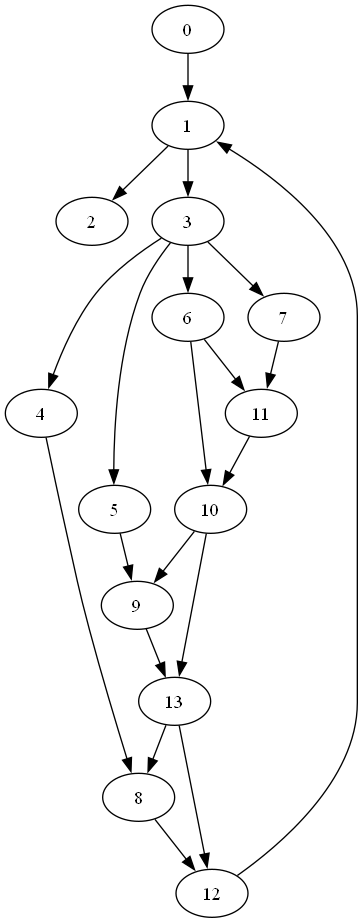
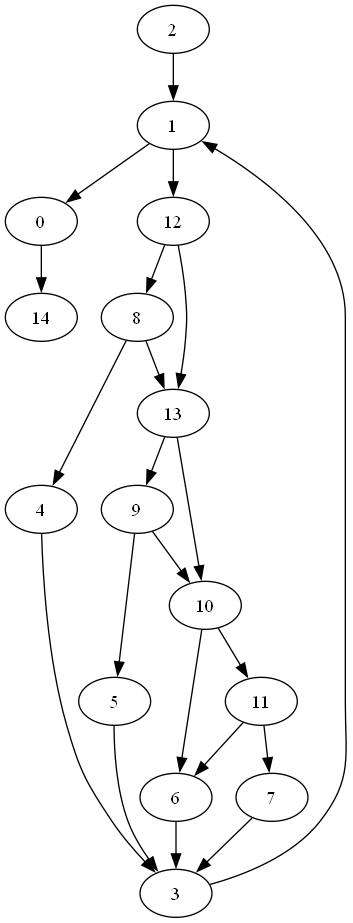
should work now for the love of god

diff --git a/single_file_stuff.cpp b/single_file_stuff.cpp
@@ -18,6 +18,7 @@ struct control_flow_node {
     std::vector<node_id> m_successors;
     node_id m_directSuccessor = 0;
     node_id m_targetSuccessor = 0;
+    node_id m_postorder;
     node_id m_startLine = 0;
     node_id m_endLine = 0;
     node_id m_index = 0;
@@ -31,42 +32,53 @@ struct control_flow_node {
     const control_flow_node* b2 = &nodes[node_b2];
     std::cout << "doing intersection for u = " << node_b1 << " v = " << node_b2 << '\n';
     while (b1->m_index != b2->m_index) {
-        while (dfn.at(b1->m_index) < dfn.at(b2->m_index)) {
+        while (b1->m_postorder < b2->m_postorder) {
             b1 = &nodes[b1->m_ipdom];
         }
-        while (dfn.at(b2->m_index) < dfn.at(b1->m_index)) {
+        while (b2->m_postorder < b1->m_postorder) {
             b2 = &nodes[b2->m_ipdom];
         }
     }
     return *b1;
 }
 
-[[nodiscard]] std::vector<node_id> create_rev_postord(const std::vector<control_flow_node>& nodes) {
+[[nodiscard]] std::vector<node_id> postorder(const std::vector<control_flow_node>& nodes) {
     std::vector<node_id> result;
     const u32 size = nodes.size();
     result.reserve(size);
     node_set visited(size, false);
-    std::function<void(node_id)> visit = [&](node_id n) {
-        if (visited[n]) {
-            return;
+
+    std::vector<std::pair<node_id, size_t>> stack;
+    stack.emplace_back(nodes.back().m_index, 0);
+    u32 i = 0;
+    while (!stack.empty()) {
+        auto [n, i] = stack.back();
+        if (!visited[n]) {
+            visited[n] = true;
         }
-        visited[n] = true;
-        for (const auto& succ : nodes[n].m_successors) {
-            visit(succ);
+
+        const auto& preds = nodes[n].m_predecessors;
+        if (i < preds.size()) {
+            stack.back().second++;
+            const auto p = preds[i];
+            if (!visited[p]) {
+                stack.emplace_back(p, 0);
+            }
         }
-        result.push_back(n);
-    };
-    visit(nodes[0].m_index);
-    std::reverse(result.begin(), result.end());
+        else {
+            result.push_back(n);
+            stack.pop_back();
+        }
+    }
     return result;
 }
 
 std::unordered_map<node_id, node_id> compute_postdominators(std::vector<control_flow_node>& m_nodes) {
-    std::vector<node_id> rev_postord = {2, 12, 8, 4, 13, 9, 5, 10, 11, 6, 7, 3, 1, 0};
+    std::vector<node_id> rev_postord = postorder(m_nodes);
     static constexpr node_id UNDEF = std::numeric_limits<node_id>::max();
 	std::unordered_map<node_id, u32> dfn;
     for (u32 i = 0; i < m_nodes.size(); ++i) {
-        dfn[rev_postord[i]] = i;
+        m_nodes[rev_postord[i]].m_postorder = i;
     }
     rev_postord.pop_back();
     std::reverse(rev_postord.begin(), rev_postord.end());
@@ -75,7 +87,7 @@ std::unordered_map<node_id, node_id> compute_postdominators(std::vector<control_
     for (auto n : rev_postord) {
         ipdom[n] = UNDEF;
     }
-    ipdom[m_nodes[0].m_index] = m_nodes[0].m_index;
+    ipdom[m_nodes.back().m_index] = m_nodes.back().m_index;
     bool changed = true;
     while (changed) {
         changed = false;
@@ -84,17 +96,18 @@ std::unordered_map<node_id, node_id> compute_postdominators(std::vector<control_
             std::cout << "proc " << n << '\n';
             node_id new_ipdom = UNDEF;
             const control_flow_node& node = m_nodes.at(n);
-            for (const auto& p : node.m_predecessors) {
+            for (const auto& p : node.m_successors) {
                 std::cout << " pred: " << p;
                 if (ipdom[p] != UNDEF) {
                     new_ipdom = p;
+                    break;
                 }
             }
             std::cout << '\n';
             if (new_ipdom == UNDEF) {
                 continue;
             }
-            for (const auto& p : node.m_predecessors) {
+            for (const auto& p : node.m_successors) {
                 if (p != new_ipdom && ipdom[p] != UNDEF) {
                     new_ipdom = intersect(p, new_ipdom, m_nodes, dfn).m_index;
                 }
@@ -111,46 +124,43 @@ std::unordered_map<node_id, node_id> compute_postdominators(std::vector<control_
 }
 
 int main() {
-    std::vector<control_flow_node> nodes(14);
+    std::vector<control_flow_node> nodes(15);
 
     for (node_id i = 0; i < nodes.size(); ++i)
         nodes[i].m_index = i;
 
-    nodes[0].m_successors = {};
-    nodes[1].m_successors = {0};
-    nodes[2].m_successors = {1};
-    nodes[3].m_successors = {1};
-    nodes[4].m_successors = {3};
-    nodes[5].m_successors = {3};
-    nodes[6].m_successors = {3};
-    nodes[7].m_successors = {3};
-    nodes[8].m_successors = {4, 13};
-    nodes[9].m_successors = {5, 10};
+    nodes[0].m_successors  = {14};
+    nodes[1].m_successors  = {0, 12};
+    nodes[2].m_successors  = {1};
+    nodes[3].m_successors  = {1};
+    nodes[4].m_successors  = {3};
+    nodes[5].m_successors  = {3};
+    nodes[6].m_successors  = {3};
+    nodes[7].m_successors  = {3};
+    nodes[8].m_successors  = {4, 13};
+    nodes[9].m_successors  = {5, 10};
     nodes[10].m_successors = {6, 11};
     nodes[11].m_successors = {6, 7};
     nodes[12].m_successors = {8, 13};
     nodes[13].m_successors = {9, 10};
 
-    nodes[0].m_predecessors = {1};
-    nodes[1].m_predecessors = {2, 3};
-    nodes[2].m_predecessors = {};
-    nodes[3].m_predecessors = {4, 5, 6, 7};
-    nodes[4].m_predecessors = {8};
-    nodes[5].m_predecessors = {9};
-    nodes[6].m_predecessors = {10, 11};
-    nodes[7].m_predecessors = {11};
-    nodes[8].m_predecessors = {12};
-    nodes[9].m_predecessors = {13};
+    nodes[0].m_predecessors  = {1};
+    nodes[1].m_predecessors  = {2, 3};
+    nodes[2].m_predecessors  = {};
+    nodes[3].m_predecessors  = {4, 5, 6, 7};
+    nodes[4].m_predecessors  = {8};
+    nodes[5].m_predecessors  = {9};
+    nodes[6].m_predecessors  = {10, 11};
+    nodes[7].m_predecessors  = {11};
+    nodes[8].m_predecessors  = {12};
+    nodes[9].m_predecessors  = {13};
     nodes[10].m_predecessors = {9, 13};
     nodes[11].m_predecessors = {10};
     nodes[12].m_predecessors = {1};
     nodes[13].m_predecessors = {8, 12};
+    nodes[14].m_predecessors = {0};
 
     auto res = compute_postdominators(nodes);
-
-    for (u32 i = 0; i < nodes.size(); ++i)
-        std::cout << "node " << i << nodes[i].m_ipdom << "\n";
-
     for (const auto& [a, b] : res) {
         std::cout << "node " << a << " ipdom " << b << "\n";
     }

diff --git a/source/decompilation/control_flow_graph.cpp b/source/decompilation/control_flow_graph.cpp
@@ -121,7 +121,7 @@ namespace dconstruct {
         }
     }
 
-    [[nodiscard]] std::vector<node_id> create_rev_postord(const std::vector<control_flow_node>& nodes) {
+    [[nodiscard]] std::vector<node_id> postorder(const std::vector<control_flow_node>& nodes) {
         std::vector<node_id> result;
         const u32 size = nodes.size();
         result.reserve(size);
@@ -145,7 +145,7 @@ namespace dconstruct {
                 }
             }
             else {
-                result.insert(result.begin(), n);
+                result.push_back(n);
                 stack.pop_back();
             }
         }
@@ -392,17 +392,19 @@ namespace dconstruct {
 
     void ControlFlowGraph::compute_postdominators() {
 
-        auto rev_postdom = create_rev_postord(m_nodes);
+        auto order = postorder(m_nodes);
 
         static constexpr node_id UNDEF = std::numeric_limits<node_id>::max();
 
-		for (u32 i = m_nodes.size(); i > 0; --i) {
-            m_nodes[m_nodes.size() - i].m_postorder = rev_postdom[i - 1];
-		}
+        for (u32 i = 0; i < m_nodes.size(); ++i) {
+            m_nodes[order[i]].m_postorder = i;
+        }
+        order.pop_back();
+		std::reverse(order.begin(), order.end());
 
-        const u32 N = rev_postdom.size();
+        const u32 N = order.size();
         std::unordered_map<node_id, node_id> ipdom;
-        for (auto n : rev_postdom) {
+        for (auto n : order) {
             ipdom[n] = UNDEF;
         }
 
@@ -412,8 +414,8 @@ namespace dconstruct {
         bool changed = true;
         while (changed) {
             changed = false;
-            for (u32 i = 1; i < N; ++i) {
-                node_id n = rev_postdom[i];
+            for (u32 i = 0; i < N; ++i) {
+                node_id n = order[i];
                 node_id new_ipdom = UNDEF;
                 const control_flow_node& node = m_nodes.at(n);
                 const auto dir_s = node.m_directSuccessor;

diff --git a/test/decompiler_test.cpp b/test/decompiler_test.cpp
@@ -120,7 +120,7 @@ namespace dconstruct::testing {
         const auto& type = rhs;
 
         std::ostringstream actual_os;
-        actual.pseudo(actual_os);
+		actual.pseudo_c(actual_os);
         const std::string actual_str = actual_os.str();
         const std::string expected_str = "return 1;";
         ASSERT_EQ(expected_str, actual_str);
@@ -139,7 +139,7 @@ namespace dconstruct::testing {
         const std::string expected = "return 1;";
         std::ostringstream os;
         for (const auto& stmt : actual) {
-            stmt->pseudo(os);
+            stmt->pseudo_c(os);
         }
         EXPECT_EQ(expected, os.str());
     }
@@ -178,7 +178,7 @@ namespace dconstruct::testing {
 
         std::ostringstream os;
         for (const auto& stmt : actual) {
-            stmt->pseudo(os);
+            stmt->pseudo_c(os);
         }
         EXPECT_EQ(expected, os.str());
     }
@@ -204,7 +204,7 @@ namespace dconstruct::testing {
 
         std::ostringstream os;
         for (const auto& stmt : actual) {
-            stmt->pseudo(os);
+            stmt->pseudo_c(os);
         }
         EXPECT_EQ(expected, os.str());
     }

diff --git a/test.py b/test.py
@@ -6,29 +6,30 @@ from IPython.display import Image
 import networkx as nx
 
 graph = {
-    0: {1},
-    1: {2, 3},
-    2: set(),
-    3: {4, 5, 6, 7},
-    4: {8},
-    5: {9},
-    6: {10, 11},
-    7: {11},
-    8: {12},
-    9: {13},
-    10: {9, 13},
-    11: {10},
-    12: {1},
-    13: {8, 12},
+    0: {14},
+    1: {0, 12},
+    2: {1},
+    3: {1},
+    4: {3},
+    5: {3},
+    6: {3},
+    7: {3},
+    8: {4, 13},
+    9: {5, 10},
+    10: {6, 11},
+    11: {6, 7},
+    12: {8, 13},
+    13: {9, 10},
+    14: {},
 }
 
-edge_list = [(dst, src) for src, dsts in graph.items() for dst in dsts]
+edge_list = [(src, dst) for src, dsts in graph.items() for dst in dsts]
 
 
 G = nx.DiGraph()
 G.add_edges_from(edge_list)
-print(list(reversed(list(nx.dfs_postorder_nodes(G, source=0)))))
-print(nx.immediate_dominators(G, start=12))
+G = G.reverse()
+print(nx.immediate_dominators(G, start=14))
 
 dot = Digraph()
 for src, dsts in graph.items():

diff --git a/include/ast/printable.h b/include/ast/printable.h
@@ -49,7 +49,7 @@ namespace dconstruct {
 
     inline std::ostream& operator<<(std::ostream& os, const Iprintable &expr) {
         if (os.iword(get_flag_index()) & static_cast<i32>(Flags::AST)) {
-            expr.ast(os);
+            expr.pseudo_py(os);
         } else {
             expr.pseudo_c(os);
         }
